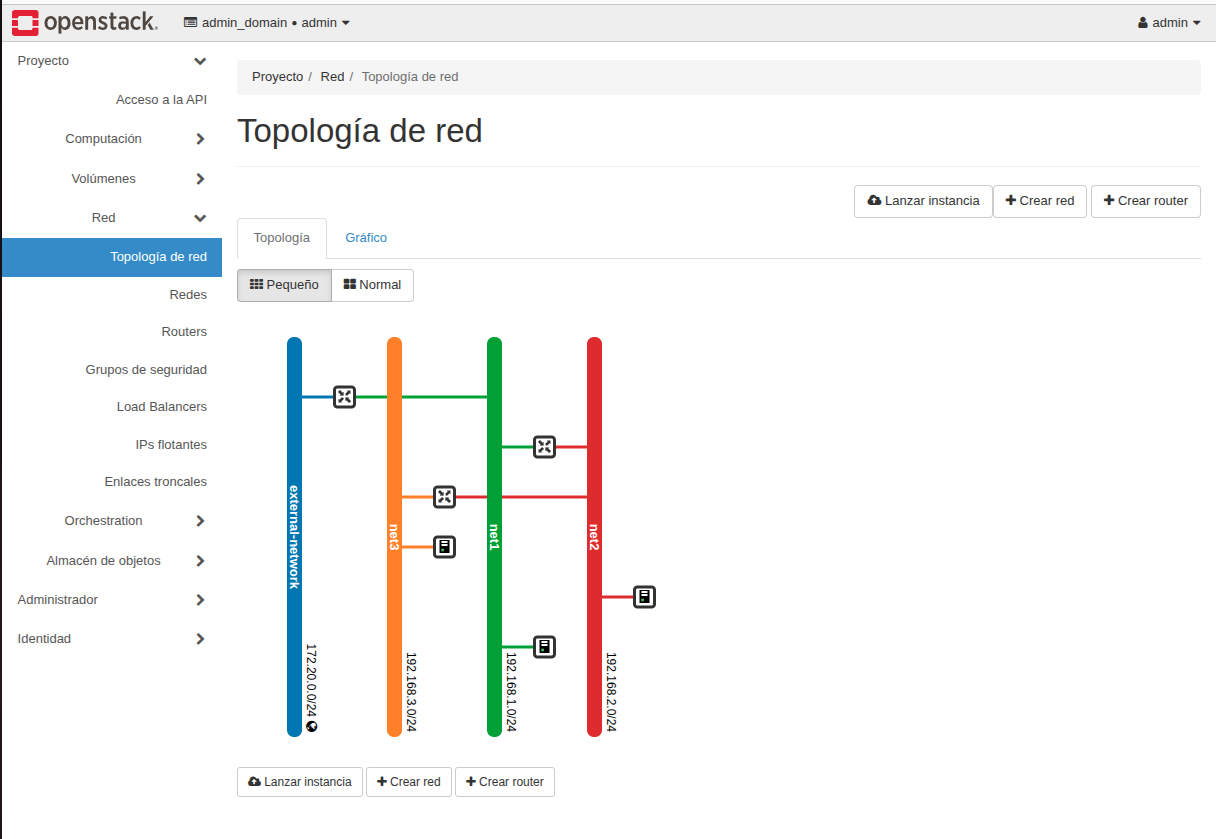
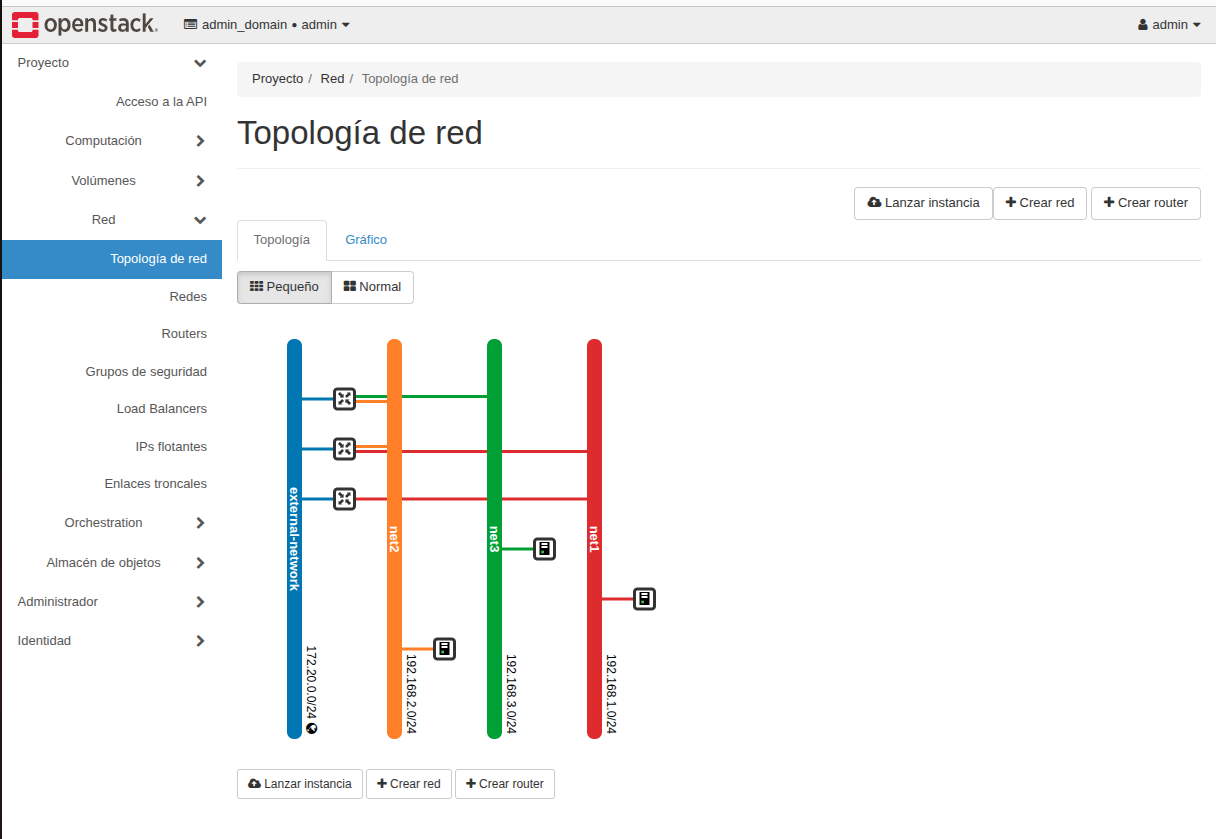
feat: add custom flavor, HTTPS security groups, gateway routes and updated README
- Add flavors.tf with m1.custom flavor (1 vCPU, 1024MB RAM, 10GB disk)
- Update security groups: replace HTTP(80) with HTTPS(443) on sg_server1 and sg_server2
- Add gateway routes to all internal networks for inter-tier routing
- Update README: security groups, flavor prerequisites, project structure and key concepts

diff --git a/Terraform_project-02-base-infra-terraform/README.md b/Terraform_project-02-base-infra-terraform/README.md
@@ -43,11 +43,11 @@ The goal is to showcase the advantages of Terraform over Heat for infrastructure
 
 The infrastructure follows a classic **3-tier architecture**:
 
-| Tier        | Server  | Network               | Role                         |
-| ----------- | ------- | --------------------- | ---------------------------- |
-| Frontend    | server1 | net1 (192.168.1.0/24) | Nginx reverse proxy (public) |
-| Application | server2 | net2 (192.168.2.0/24) | Apache + PHP (internal)      |
-| Database    | server3 | net3 (192.168.3.0/24) | MySQL (internal)             |
+| Tier        | Server  | Network               | Role                                |
+| ----------- | ------- | --------------------- | ----------------------------------- |
+| Frontend    | server1 | net1 (192.168.1.0/24) | Nginx reverse proxy (public)        |
+| Application | server2 | net2 (192.168.2.0/24) | Apache + PHP + WordPress (internal) |
+| Database    | server3 | net3 (192.168.3.0/24) | MySQL (internal)                    |
 
 ```
 Internet
@@ -67,8 +67,8 @@ Internet
 
 ### 🔒 Security Groups
 
-- **sg_server1**: SSH, ICMP, HTTP from `0.0.0.0/0` (public)
-- **sg_server2**: SSH, ICMP, HTTP from `192.168.1.0/24` only
+- **sg_server1**: SSH, ICMP, HTTP (80) and HTTPS (443) from `0.0.0.0/0` (public). Port 80 is kept open for HTTP→HTTPS redirect.
+- **sg_server2**: SSH, ICMP, HTTPS (443) from `192.168.1.0/24` only
 - **sg_server3**: SSH, ICMP, MySQL (3306) from `192.168.2.0/24` only
 
 ---
@@ -103,14 +103,15 @@ Key features:
 The Terraform project is organized into **independent, reusable modules**, one per infrastructure component:
 
 ```
-project-02-base-infra-terraform/
+Terraform_project-02-base-infra-terraform/
+├── flavors.tf                 # Custom flavor definition (m1.custom)
 ├── main.tf                    # Root module - calls all child modules
 ├── variables.tf               # Root variable declarations
 ├── terraform.tfvars           # Variable values (dev environment)
 ├── outputs.tf                 # Root outputs (IPs, IDs)
 ├── providers.tf               # OpenStack provider configuration
 └── modules/
-    ├── networks/              # Networks and subnets
+    ├── networks/              # Networks, subnets and gateway routes
     ├── routers/               # Routers and static routes
     ├── security-groups/       # Security groups and rules
     ├── servers/               # Ports and compute instances
@@ -139,6 +140,14 @@ terraform apply -var-file="terraform-staging.tfvars"
 - OpenStack credentials configured in `~/.config/openstack/clouds.yaml`
 - Terraform 1.14.7 installed
 - SSH keypair available at `~/.ssh/id_rsa.pub`
+
+> ⚠ **Important**: This project uses a custom flavor `m1.custom` (1 vCPU, 1024 MB RAM, 10 GB disk). It must exist in OpenStack before running `terraform apply`. Create it with:
+> 
+> ```bash
+> openstack flavor create m1.custom --vcpus 1 --ram 1024 --disk 10 --public
+> ```
+> 
+> Alternatively, the flavor is defined in `flavors.tf` and will be created automatically by Terraform if it does not exist.
 
 ### Step 1 — Empty topology
 
@@ -250,6 +259,8 @@ openstack stack show test-stack
 - **Single source of truth**: All values flow from `terraform.tfvars`. To create a production environment with different CIDRs and server names, just create `terraform-pro.tfvars`.
 
 - **Stateful firewall**: Security groups in OpenStack are stateful — return traffic is automatically allowed for established connections. No need for explicit egress rules.
+
+- **Network gateway routes**: Each internal network (net1, net2, net3) has a gateway route configured toward the `external-network`. This is required for inter-network routing through the OpenStack routers and ensures full connectivity across all three tiers.
 
 ---
 
